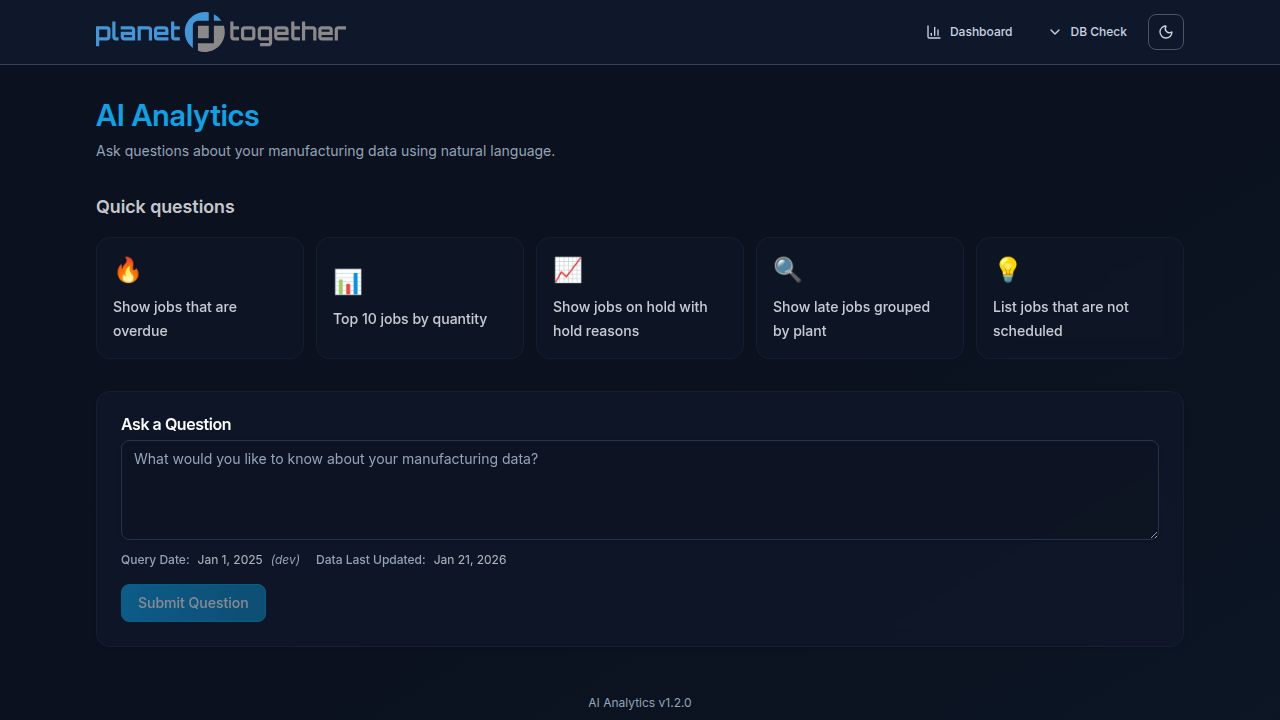
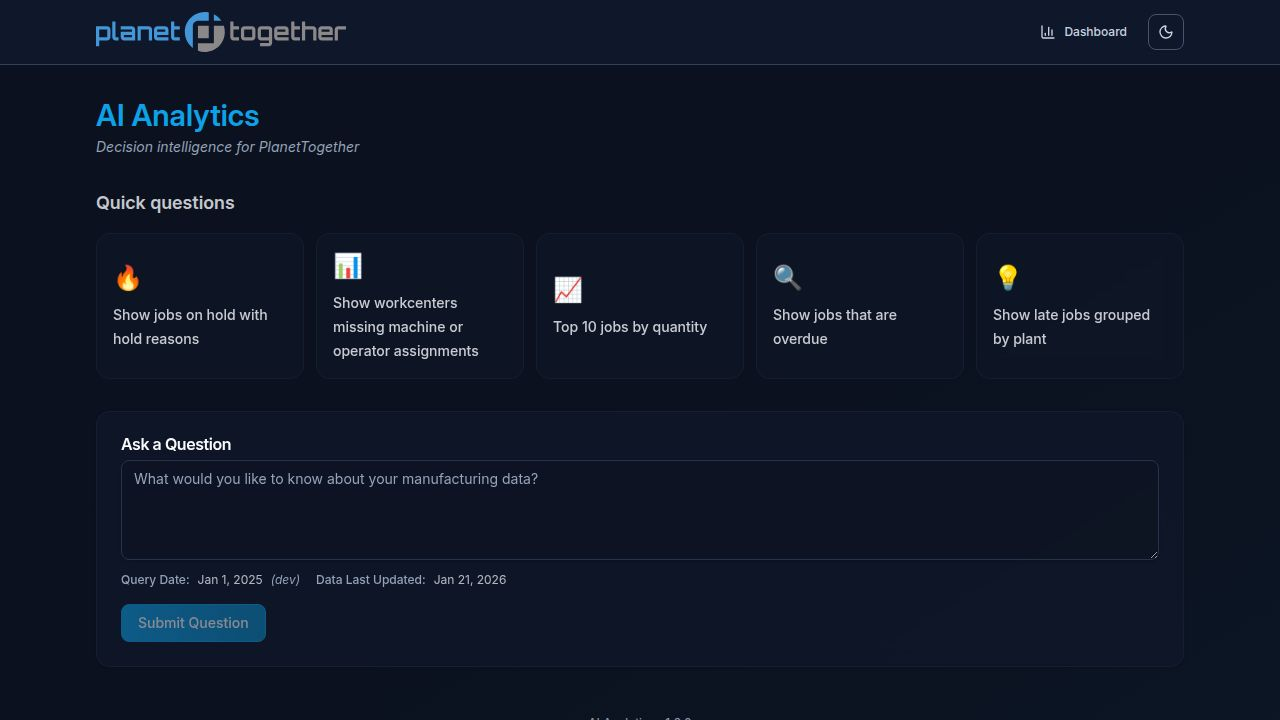
Improve job filtering and clarify hold status definitions
Update server-side logic to distinguish between "unscheduled" and "on hold" jobs by adding specific filtering conditions for `JobOnHold` and clarifying the meaning of job hold statuses.

Replit-Commit-Author: Agent
Replit-Commit-Session-Id: 0dbbb982-6ca3-4eb8-8cf5-d91497a90054
Replit-Commit-Checkpoint-Type: full_checkpoint
Replit-Commit-Event-Id: 4842166f-f826-4561-8bdc-4fb50b910da0
Replit-Commit-Screenshot-Url: https://storage.googleapis.com/screenshot-production-us-central1/fe231bd0-3575-4d97-ac43-7b7995348253/0dbbb982-6ca3-4eb8-8cf5-d91497a90054/gZNLc3j

diff --git a/server/openai-client.ts b/server/openai-client.ts
@@ -173,6 +173,9 @@ PRODUCTION PLANNING TABLES:
 - When user asks for "scheduled jobs": ALWAYS add WHERE JobScheduledStatus = 'Scheduled'
 - When user asks for "unscheduled jobs": use WHERE JobScheduledStatus IN ('FailedToSchedule', 'Unscheduled')
 - Jobs with sentinel dates (9000-01-01, 1800-01-01) are UNSCHEDULED - filter them out
+- JobOnHold values: 'OnHold', 'Released' - IMPORTANT: "on hold" is NOT the same as "unscheduled"
+- When user asks for "jobs on hold" or "held jobs": use WHERE JobOnHold = 'OnHold'
+- To include hold reasons: SELECT JobHoldReason column (may be NULL if no reason specified)
 
 FINANCE/SCENARIO-AWARE TABLES (DASHt_SalesOrders):
 - If user does NOT mention scenario, ALWAYS add: WHERE ScenarioType = 'Production'
